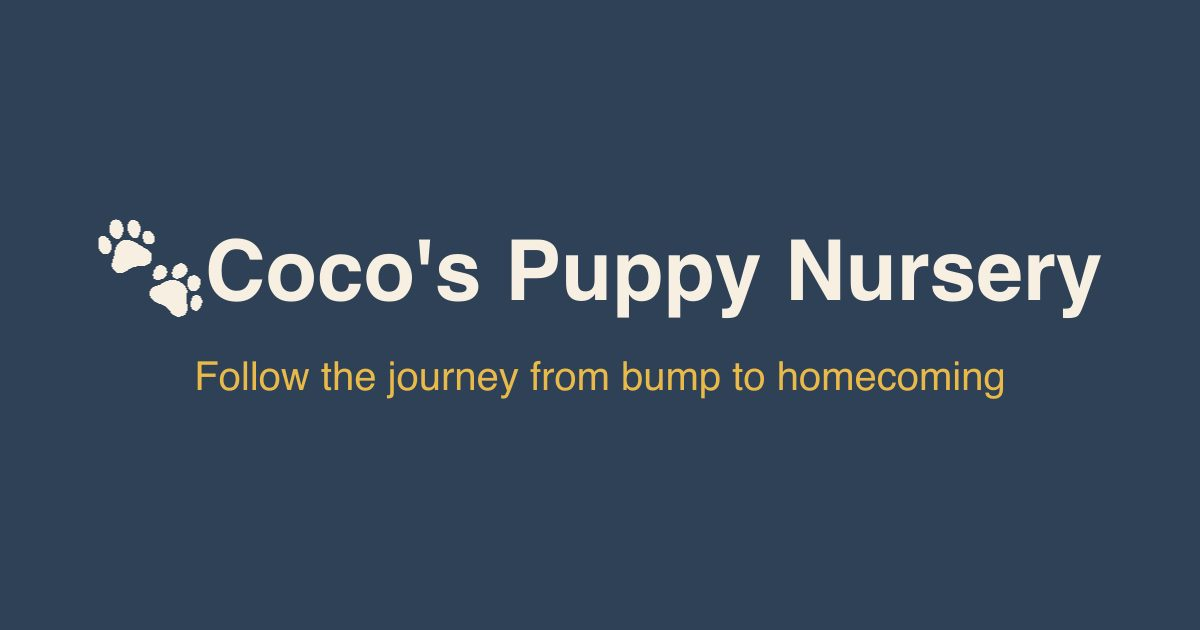
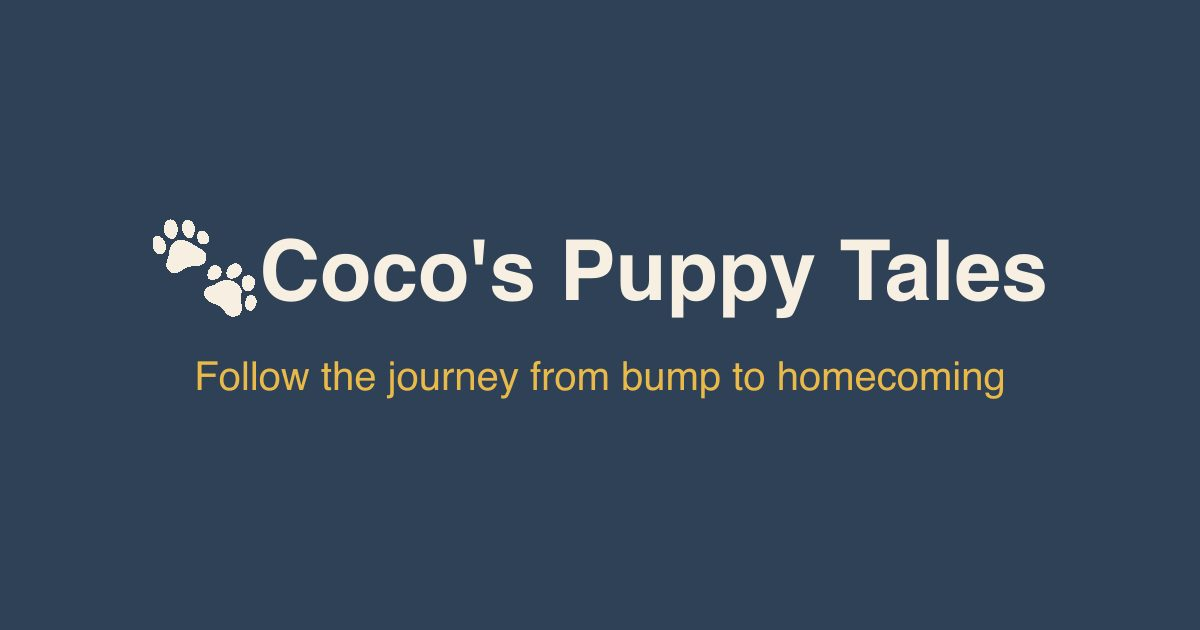
feat: rename site to Coco's Puppy Tales

Changed region(s): [[0.0617, 0.3317, 0.925, 0.5127]]

diff --git a/test/e2e/smoke.spec.ts b/test/e2e/smoke.spec.ts
@@ -2,7 +2,7 @@ import { test, expect } from '@playwright/test';
 
 test('home page shows hero, countdown, and nav works', async ({ page }) => {
   await page.goto('/');
-  await expect(page.getByRole('heading', { name: "Coco's Puppy Nursery" })).toBeVisible();
+  await expect(page.getByRole('heading', { name: "Coco's Puppy Tales" })).toBeVisible();
   await expect(page.locator('#countdown .num').first()).toBeVisible();
   await page.getByRole('link', { name: 'The Journey' }).first().click();
   await expect(page).toHaveURL(/\/journey/);
